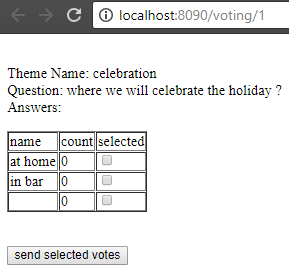
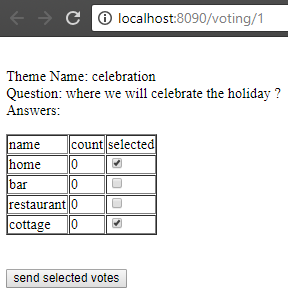
update screenshots

diff --git a/frontendClient/js/createVoting.js b/frontendClient/js/createVoting.js
@@ -1,8 +1,10 @@
 app.controller("VotingController", function ($scope, $http) {
 
 
-    $scope.answers = [{answerName: 'aa', count: '0'},
-        {answerName: 'bb', count: '0'},
+    $scope.answers = [{answerName: 'home', count: '0'},
+        {answerName: 'bar', count: '0'},
+        {answerName: 'restaurant', count: '0'},
+        {answerName: 'cottage', count: '0'},
     ];
 
 
